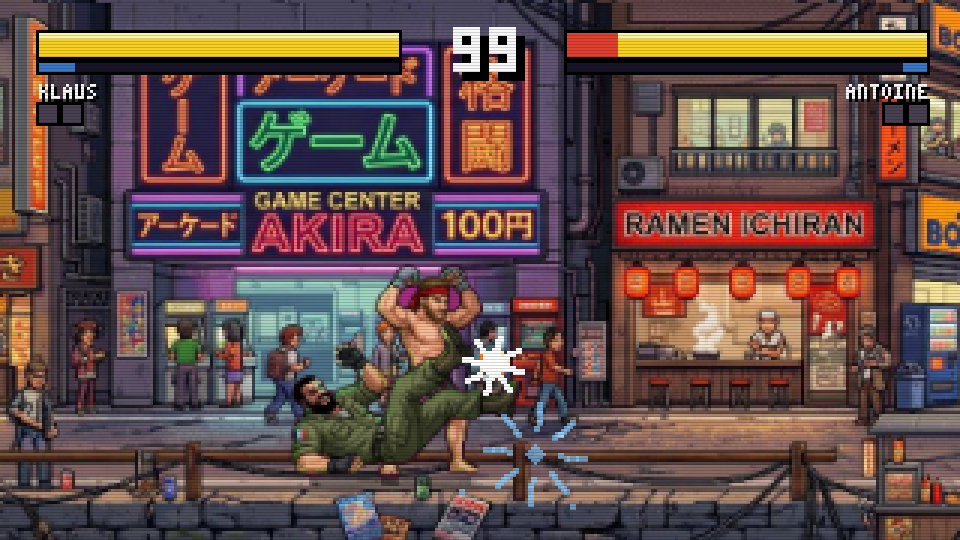
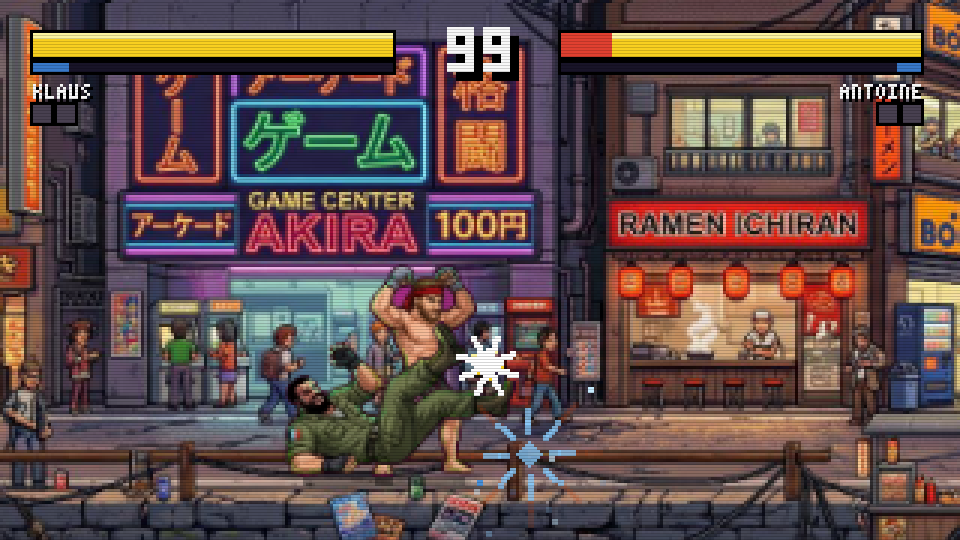
Put the winner's portrait on the victory splash
That screen was blowing up the winner's own victory pose, and its comment
said why: no portrait art existed and that pose was the most characterful
frame either fighter had. There is portrait art now, so it uses it -
framed the same way the select screen frames it, against the same turning
sunburst, with the fighter's subtitle under the name.

The pose stays as the fallback for a fighter with no portrait, so nothing
regresses for one that has none.

`portraits.js` keeps the keyed cutout at source resolution and scales on
demand, cached per size, instead of baking one size at load. Two sizes are
ever asked for and each is resampled once rather than every frame it is on
screen.

Claude-Session: https://claude.ai/code/session_01Aut9EV39uKFMZnta6ZnCcp

diff --git a/dojo-duel/js/portraits.js b/dojo-duel/js/portraits.js
@@ -16,8 +16,11 @@ window.DD = window.DD || {};
 (function () {
   const PANEL_W = 72;         // the select screen's panel, in game pixels
   const PANEL_H = 98;
+  const SPLASH_W = 94;        // ...and the victory splash's, which is bigger
+  const SPLASH_H = 126;
 
-  const frames = {};          // by character key
+  const cutouts = {};         // keyed and cropped, at source resolution
+  const sized = {};           // scaled copies, by `char:WxH`
   let pending = 0;
 
   // Everything the flat field can reach from the edge of the image is
@@ -58,28 +61,35 @@ window.DD = window.DD || {};
     }
     if (x1 < x0) return null;                    // the whole image is field
 
-    const src = document.createElement('canvas');
-    src.width = w; src.height = h;
-    src.getContext('2d').putImageData(id, 0, 0);
-
-    // Fill the panel rather than fit inside it, so three portraits drawn
-    // at three different aspect ratios still make one tidy row. What is
-    // over is cropped off the sides and the bottom - a portrait is framed
-    // on the face, and it is the belt that can go.
-    //
-    // Painted art needs the smoothed downscale; nearest-neighbour on a
-    // brush stroke is noise, not pixel art.
     const cw = x1 - x0 + 1, ch = y1 - y0 + 1;
-    const scale = Math.max(PANEL_W / cw, PANEL_H / ch);
-    const sw = Math.min(cw, PANEL_W / scale);
-    const sh = Math.min(ch, PANEL_H / scale);
+    const out = document.createElement('canvas');
+    out.width = cw; out.height = ch;
+    const c = out.getContext('2d');
+    const full = document.createElement('canvas');
+    full.width = w; full.height = h;
+    full.getContext('2d').putImageData(id, 0, 0);
+    c.drawImage(full, x0, y0, cw, ch, 0, 0, cw, ch);
+    return out;
+  }
+
+  // Fill the box rather than fit inside it, so portraits drawn at
+  // different aspect ratios still make one tidy row. What is over is
+  // cropped off the sides and the bottom - a portrait is framed on the
+  // face, and it is the belt that can go.
+  //
+  // Painted art needs the smoothed downscale; nearest-neighbour on a
+  // brush stroke is noise, not pixel art.
+  function fit(cut, bw, bh) {
+    const scale = Math.max(bw / cut.width, bh / cut.height);
+    const sw = Math.min(cut.width, bw / scale);
+    const sh = Math.min(cut.height, bh / scale);
     const out = document.createElement('canvas');
     out.width = Math.max(1, Math.round(sw * scale));
     out.height = Math.max(1, Math.round(sh * scale));
     const c = out.getContext('2d');
     c.imageSmoothingEnabled = true;
     c.imageSmoothingQuality = 'high';
-    c.drawImage(src, x0 + (cw - sw) / 2, y0, sw, sh, 0, 0, out.width, out.height);
+    c.drawImage(cut, (cut.width - sw) / 2, 0, sw, sh, 0, 0, out.width, out.height);
     return out;
   }
 
@@ -92,12 +102,12 @@ window.DD = window.DD || {};
       img.onload = () => {
         try {
           const cv = keyOut(img);
-          if (cv) frames[e.char] = cv;
+          if (cv) cutouts[e.char] = cv;
         } catch (err) {
           console.warn(`[dojo] ${e.char}: portrait failed`, err);
         }
         if (--pending === 0) {
-          const n = Object.keys(frames).length;
+          const n = Object.keys(cutouts).length;
           if (n) console.info(`[dojo] portraits: ${n} loaded`);
         }
       };
@@ -106,10 +116,23 @@ window.DD = window.DD || {};
     }
   }
 
+  // Scaled copies are cached: two sizes are ever asked for, and a portrait
+  // is resampled once rather than every frame it is on screen.
+  function at(charKey, bw, bh) {
+    const cut = cutouts[charKey];
+    if (!cut) return null;
+    const key = `${charKey}:${bw}x${bh}`;
+    if (!sized[key]) sized[key] = fit(cut, bw, bh);
+    return sized[key];
+  }
+
   DD.portraits = {
     load,
     PANEL_W,
     PANEL_H,
-    get(charKey) { return frames[charKey] || null; },
+    SPLASH_W,
+    SPLASH_H,
+    get(charKey) { return at(charKey, PANEL_W, PANEL_H); },
+    splash(charKey) { return at(charKey, SPLASH_W, SPLASH_H); },
   };
 })();

diff --git a/dojo-duel/js/ui.js b/dojo-duel/js/ui.js
@@ -209,9 +209,10 @@ window.DD = window.DD || {};
     F().drawTextShadow(ctx, 'STAGE: UP/DOWN     ESC: BACK', 160, 172, 1, '#7a7488', 'center');
   }
 
-  // Victory splash. No portrait art exists, so the winner's own victory
-  // pose is blown up to stand in for one — it is the most characterful
-  // frame either fighter has.
+  // Victory splash: the winner's select-screen portrait, framed, against a
+  // turning sunburst. Without a portrait their own victory pose is blown
+  // up instead — the most characterful frame either fighter has, and what
+  // this screen used before there was any portrait art.
   function drawMatchEnd(ctx, game, t) {
     ctx.fillStyle = 'rgba(8, 4, 16, 0.62)';
     ctx.fillRect(0, 0, 320, 180);
@@ -224,11 +225,8 @@ window.DD = window.DD || {};
       return;
     }
 
-    const frames = DD.sprites.frames[w.char][w.skin];
-    const pose = frames.win0 ? 'win0' : DD.sprites.idleFrame(w.char);
-    const meta = DD.sprites.meta[w.char][pose];
-    const scale = Math.min(2.0, 116 / meta.h);
-    const bh = Math.round(meta.h * scale);
+    const P = DD.portraits;
+    const art = P.splash(w.char);
     const cx = 82, cy = 92;
 
     // sunburst behind the winner, turning slowly. Wedges rather than
@@ -248,10 +246,29 @@ window.DD = window.DD || {};
     }
     ctx.restore();
 
-    DD.sprites.draw(ctx, w.char, w.skin, pose, 1, cx, cy + bh / 2, 0, scale);
+    if (art) {
+      const px = Math.round(cx - art.width / 2), py = Math.round(cy - art.height / 2);
+      ctx.fillStyle = '#141020';
+      ctx.fillRect(px, py, art.width, art.height);
+      ctx.drawImage(art, px, py);
+      ctx.lineWidth = 1;
+      ctx.strokeStyle = '#f8d020';
+      ctx.strokeRect(px + 0.5, py + 0.5, art.width - 1, art.height - 1);
+      ctx.strokeStyle = '#8a6a10';
+      ctx.strokeRect(px - 1.5, py - 1.5, art.width + 3, art.height + 3);
+    } else {
+      const frames = DD.sprites.frames[w.char][w.skin];
+      const pose = frames.win0 ? 'win0' : DD.sprites.idleFrame(w.char);
+      const meta = DD.sprites.meta[w.char][pose];
+      const scale = Math.min(2.0, 116 / meta.h);
+      DD.sprites.draw(ctx, w.char, w.skin, pose, 1,
+        cx, cy + Math.round(meta.h * scale) / 2, 0, scale);
+    }
 
-    F().drawTextShadow(ctx, w.name, 218, 66, 3, '#f8d020', 'center');
-    F().drawTextShadow(ctx, 'WINS!', 218, 88, 3, '#f8f8f8', 'center');
+    F().drawTextShadow(ctx, w.name, 218, 60, 3, '#f8d020', 'center');
+    F().drawTextShadow(ctx, 'WINS!', 218, 82, 3, '#f8f8f8', 'center');
+    const style = (DD.C.ROSTER.find((e) => e.char === w.char) || {}).style;
+    if (style) F().drawTextShadow(ctx, style, 218, 104, 1, '#8a8496', 'center');
     if ((t % 60) < 40) {
       F().drawTextShadow(ctx, 'ENTER: BACK TO TITLE', 218, 124, 1, '#b8b0c0', 'center');
     }

diff --git a/dojo-duel/README.md b/dojo-duel/README.md
@@ -109,8 +109,9 @@ a K.O.
 
   The portraits are one image per fighter, `assets/portrait-<name>.png`,
   painted on the same flat field as the sprite sheets and keyed out the
-  same way. Without one a panel falls back to that fighter's own victory
-  pose, so the screen works before any portrait art exists.
+  same way. The victory splash uses them too. Without one, a panel falls
+  back to that fighter's own victory pose, so both screens work before any
+  portrait art exists.
 - **The roster**, drawn as sprite sheets and imported straight from
   `assets/` (see [Bring your own art](#bring-your-own-art)):
   - **KLAUS VÖLKER** (MMA, Germany): bare torso, black-and-gold trunks
@@ -162,8 +163,8 @@ a K.O.
   dashes and rushing specials leave motion trails; landing raises dust; a
   super flashes the screen and dims the stage under the fighters. It all
   lives in `js/fx.js`, so the game loop only says what happened
-- Victory splash: the winner's own victory pose, blown up against a
-  turning sunburst
+- Victory splash: the winner's select-screen portrait, framed against a
+  turning sunburst — or, without one, their own victory pose blown up
 - Synthesized chiptune sound effects (WebAudio, no audio files)
 - A custom 3x5 pixel font, CRT scanline effect (removable in `style.css`)
 

diff --git a/dojo-duel/ROADMAP.md b/dojo-duel/ROADMAP.md
@@ -122,9 +122,9 @@ implements. Every milestone ends in a playable build.
       ended the round is something you watch
 - [x] Motion trails behind a dash and a rushing special
 - [x] Landing dust, and screen shake scaled to the hit
-- [x] Victory splash: the winner's own victory pose blown up against a
-      turning sunburst — no portrait art exists, and that pose is the most
-      characterful frame either fighter has
+- [x] Victory splash: the winner blown up against a turning sunburst. It
+      used the victory pose because no portrait art existed; it uses the
+      select-screen portrait now, and falls back to the pose without one
 - [ ] **Not done: crowd reactions.** The stages are single painted
       panoramas, so there is no crowd layer to animate. It needs either
       a separate foreground crowd strip per stage, or going back to the

diff --git a/dojo-duel/assets/README.md b/dojo-duel/assets/README.md
@@ -43,8 +43,10 @@ There is no need to draw a frame, a name or a label. The screen draws all
 of that itself, from the roster — which is also why a generator inventing
 names for your fighters does no harm.
 
-No file, no problem: that panel falls back to the fighter's own victory
-pose until the art shows up.
+The victory splash uses the same picture, at a larger size.
+
+No file, no problem: both fall back to the fighter's own victory pose
+until the art shows up.
 
 > A pixel art character portrait, head and upper body, facing the viewer,
 > on a flat solid magenta background (#FF00FF). No frame, no border, no
